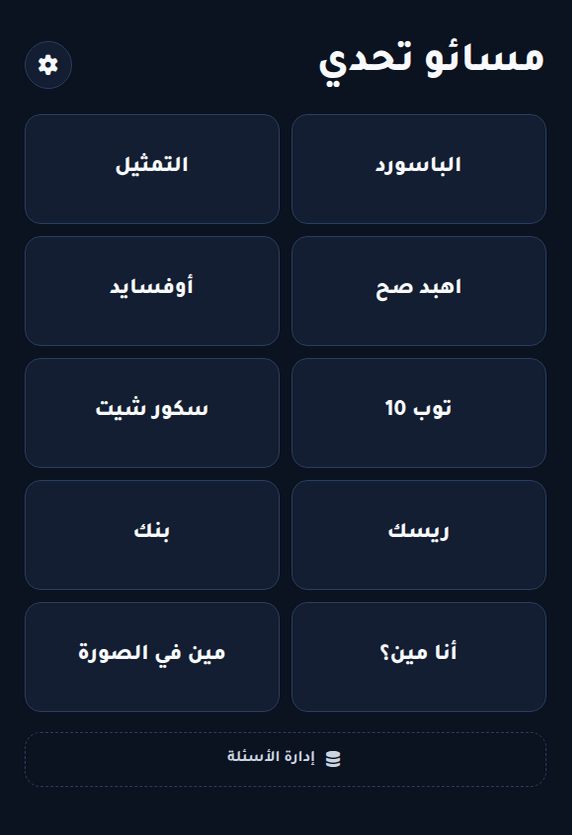
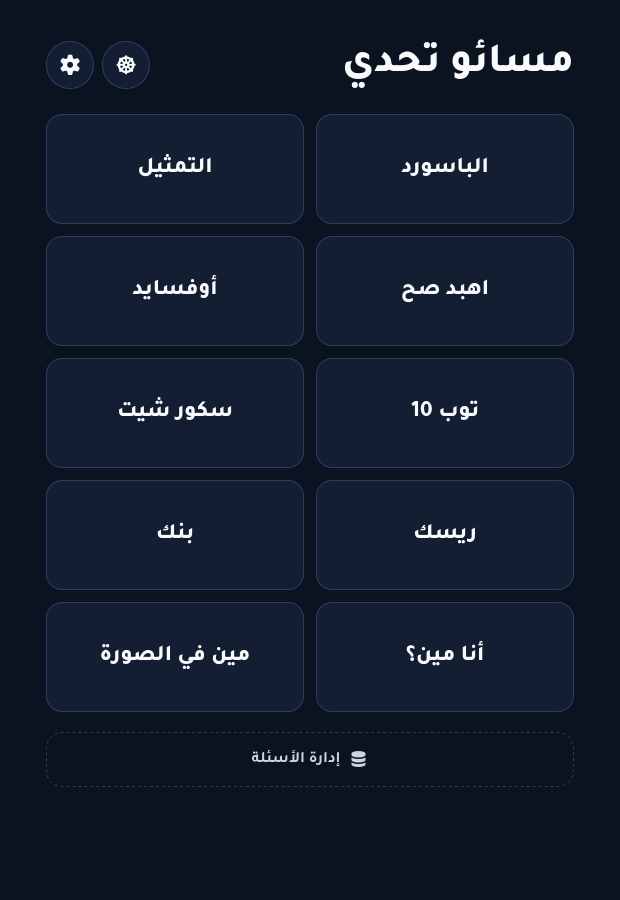
docs: document game wheel in README (#52)
* docs: document game wheel in README

* docs: place game wheel after Who-in-Picture

diff --git a/README.md b/README.md
@@ -19,6 +19,8 @@ There's more here than straight question-and-answer trivia:
 - **Ana Meen (أنا مين؟):** work out the mystery footballer from five clues.
 - **Who-in-Picture (مين في الصورة):** put names to the eleven faces in a team photo.
 
+Not sure what to play next? Tap the wheel shortcut beside Settings on the main menu to choose a game at random. A fresh round starts with all ten games on the wheel. You can remove games and restore them later; a winner stays on the wheel until you close the result, then joins the ordered picked list. The round is saved in this browser, and **New round** starts over.
+
 The referee has the answers, timers, and scores on screen. They decide what counts, award points, and can fix the score whenever needed. The app keeps things moving; the football arguments are still yours to settle.
 
 The screens are in Arabic, work right-to-left, and have light and dark themes. You can also add your own questions and import question packs from the question-management page, so the group doesn't have to keep playing the same material.
@@ -29,7 +31,7 @@ These are screenshots from the running app in dark mode. They're the referee's v
 
 ### Main menu: the whole game night in one place
 
-![The complete main menu, with all ten games, the Settings gear, and Question Management visible](docs/screenshots/main-menu.png)
+![The main menu with all ten games, the Settings gear, the game-wheel shortcut, and Question Management](docs/screenshots/main-menu.png)
 
 ### Risk: pick your category and your points
 
@@ -42,6 +44,10 @@ These are screenshots from the running app in dark mode. They're the referee's v
 ### Who-in-Picture: how many faces do you remember?
 
 ![Who-in-Picture showing Chelsea's 2012 Champions League final team photo and the referee's answer list](docs/screenshots/whopicture.png)
+
+### Game wheel: pick the next challenge
+
+![The wheel with all ten games and controls for available, removed, and picked games, plus a new-round button](docs/screenshots/game-wheel.png)
 
 ## Management
 
